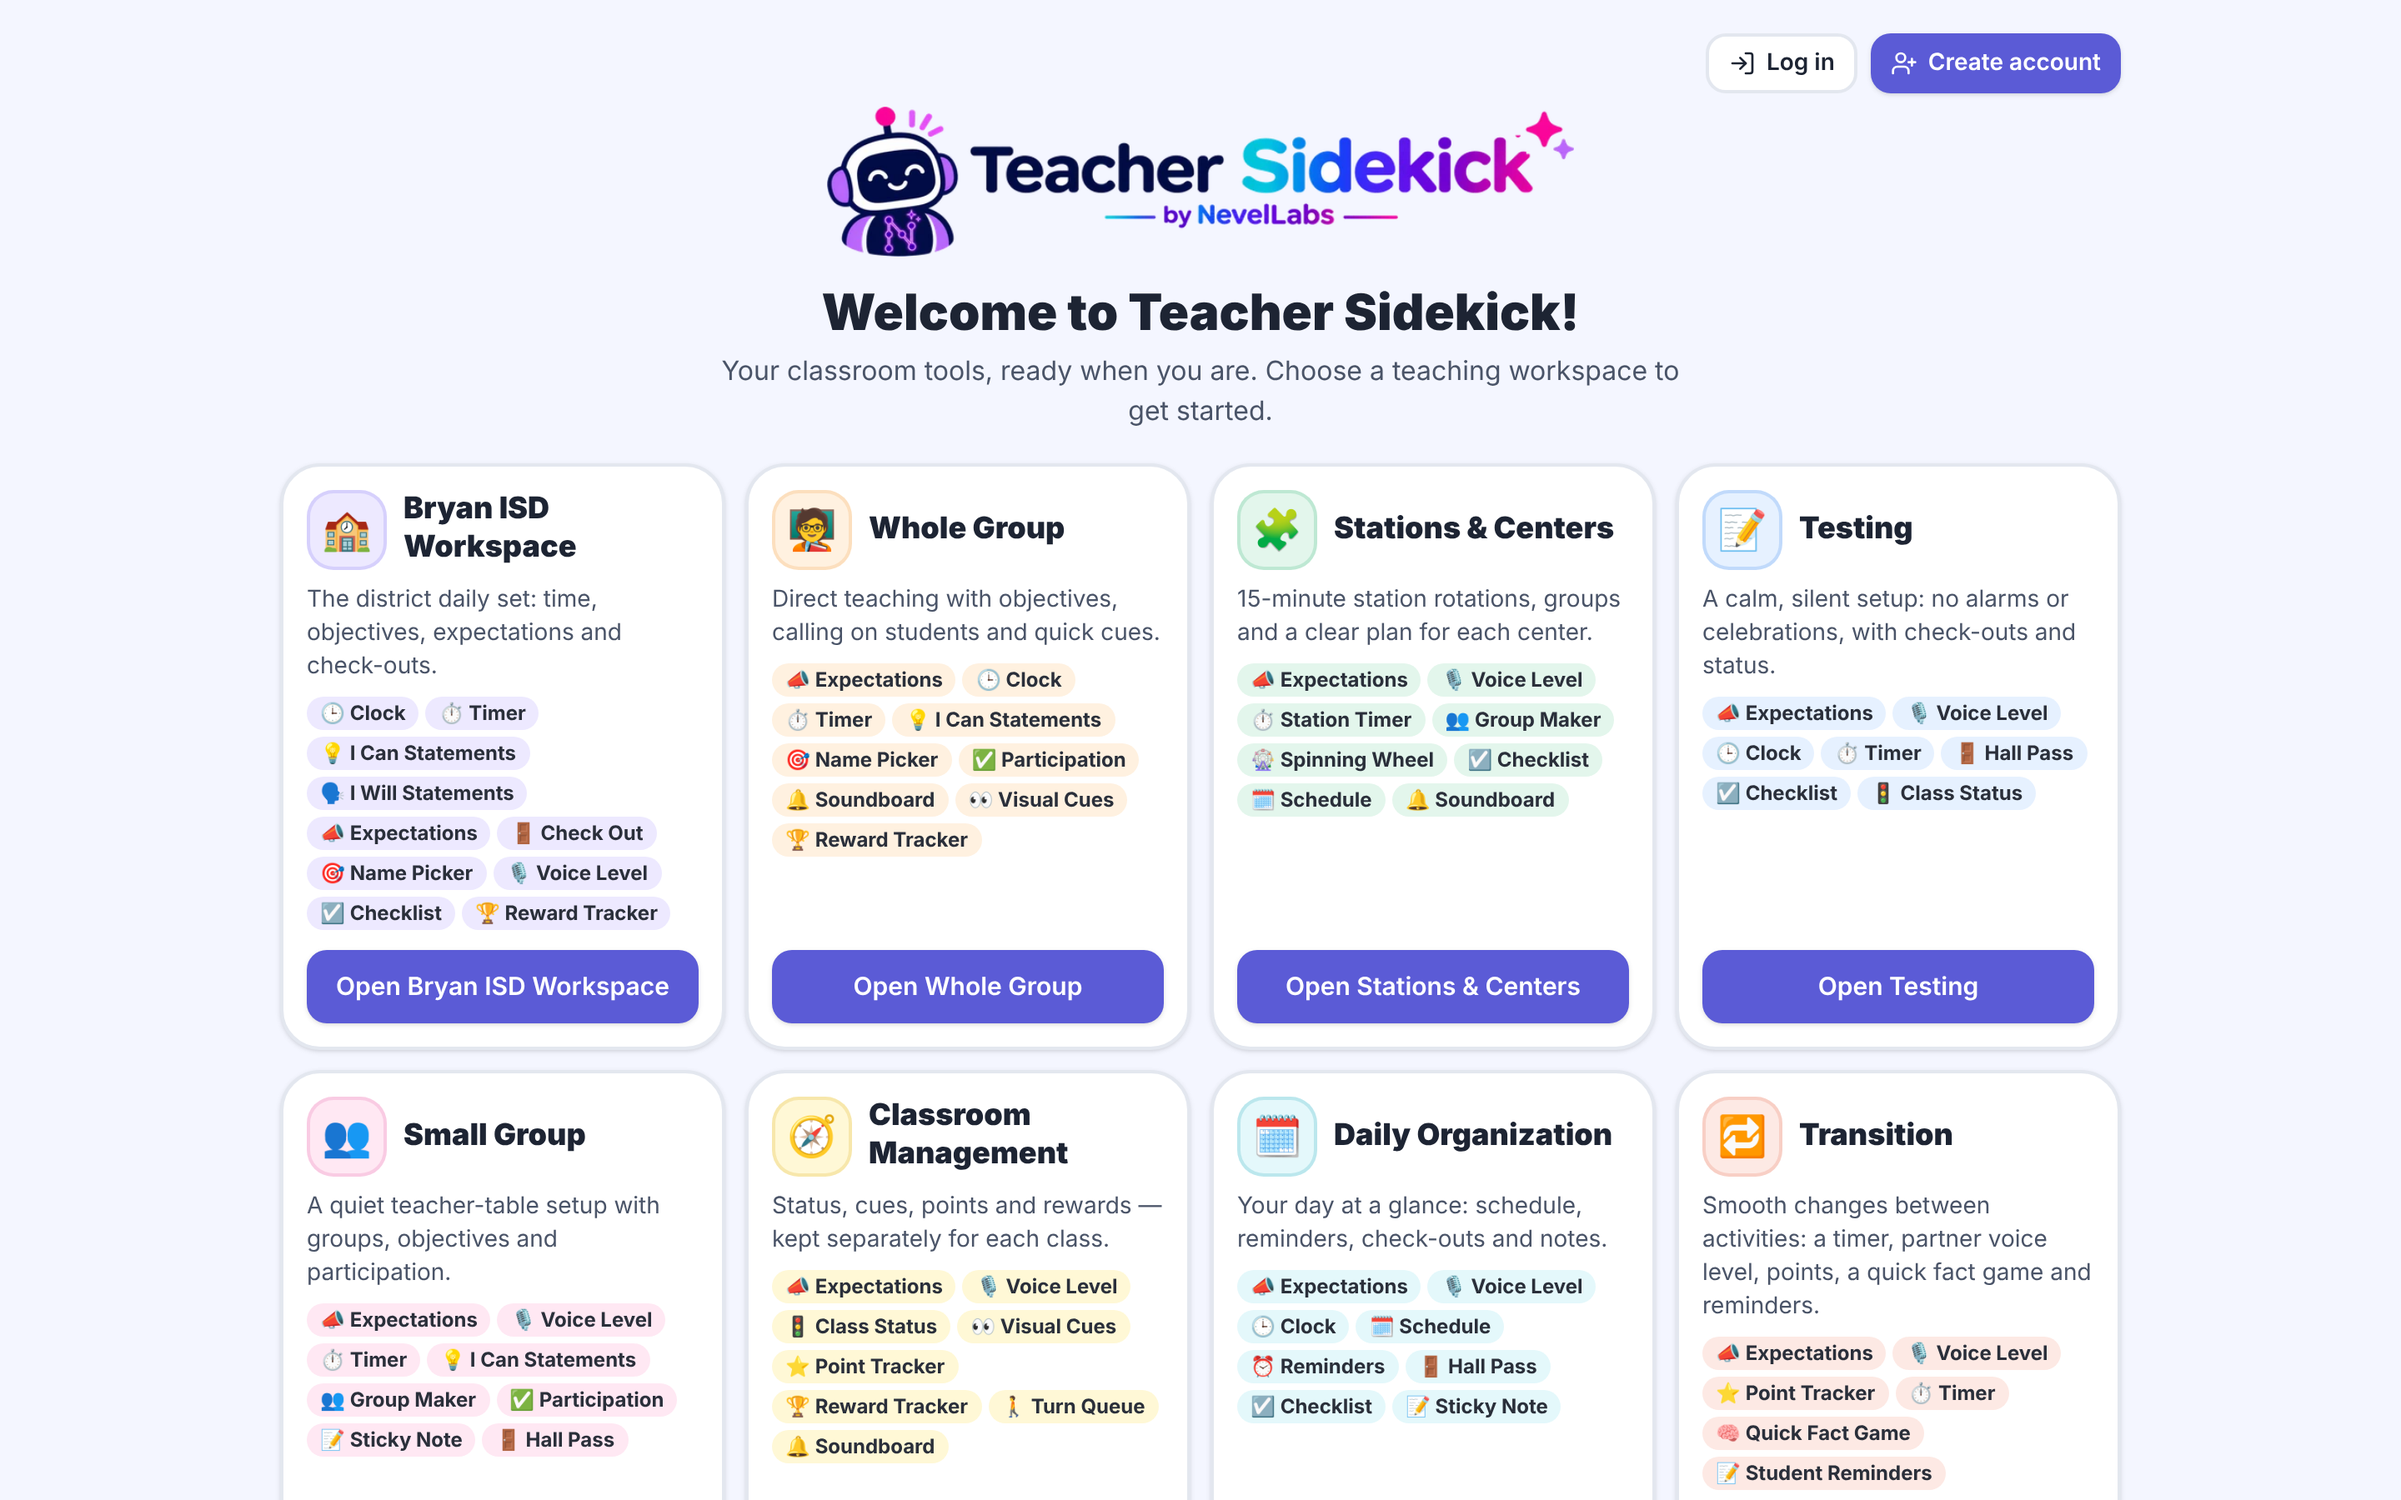
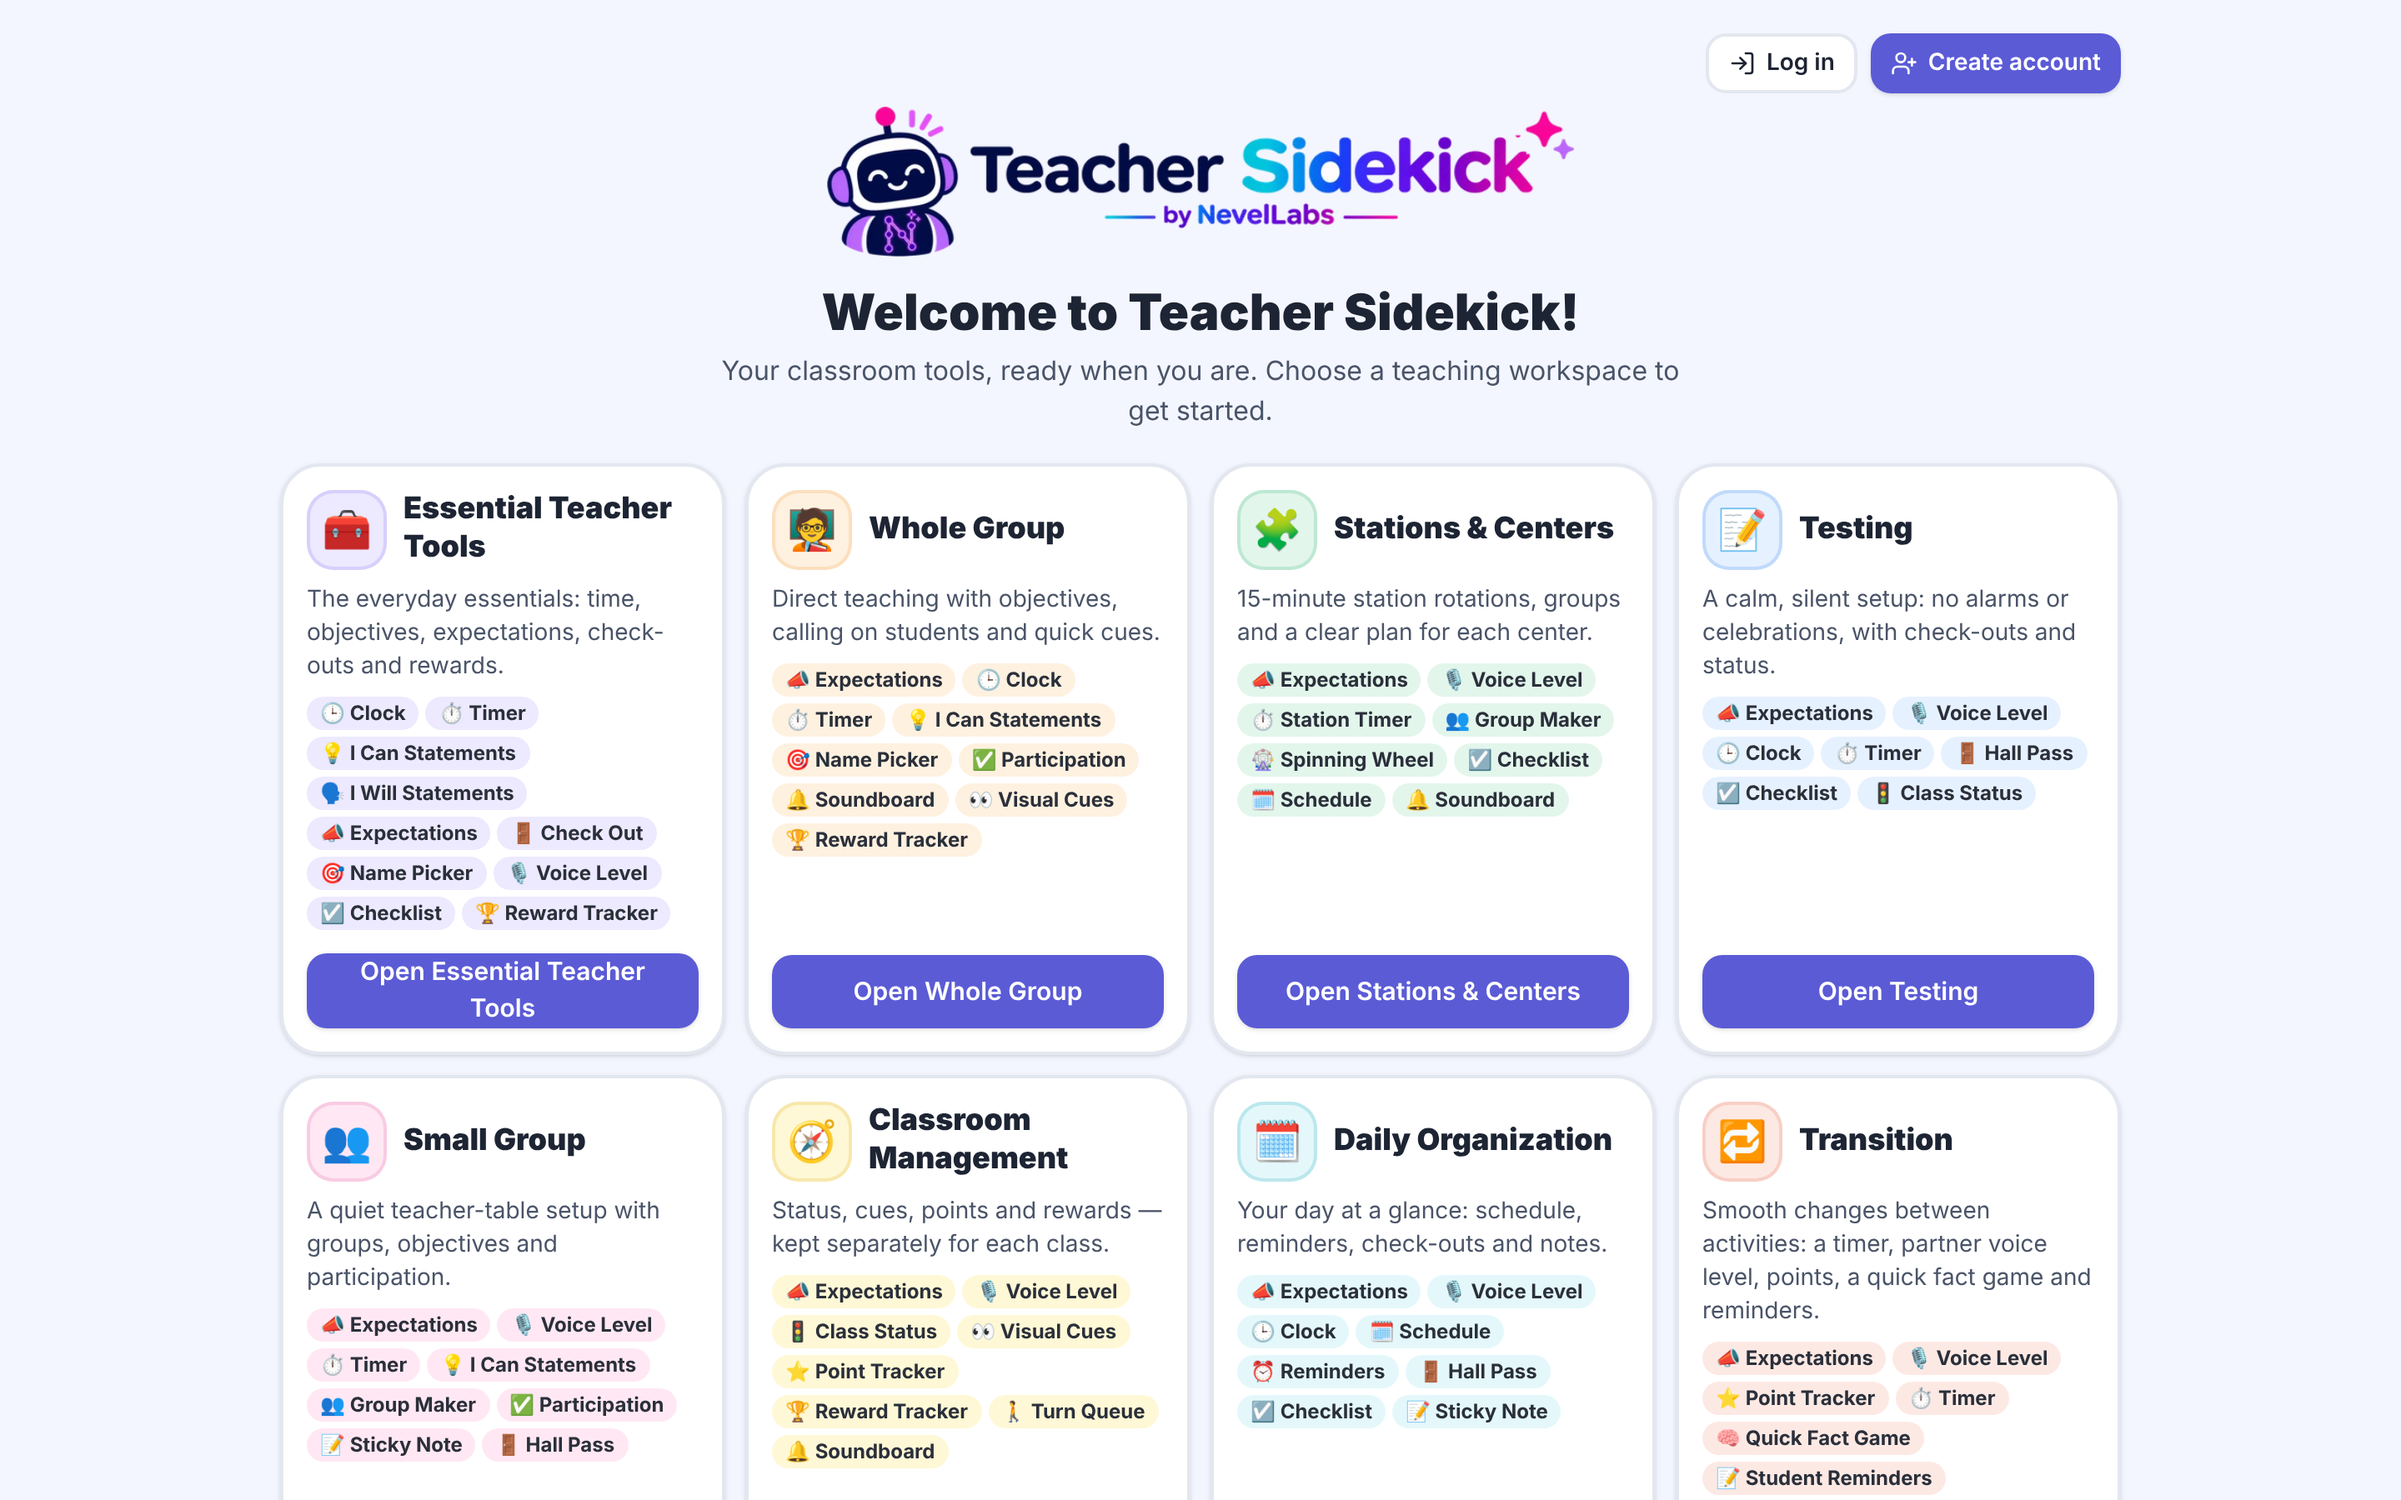
Rename Bryan ISD Workspace preset to Essential Teacher Tools; new screenshots
Claude-Session: https://claude.ai/code/session_011ABWDUMrGmbtZbTtGi8Xcc

diff --git a/e2e/sessions.spec.ts b/e2e/sessions.spec.ts
@@ -10,7 +10,7 @@ test("a new visit shows the branded chooser with all eight presets, at desktop a
     await expect(page.getByRole("heading", { name: "Welcome to Teacher Sidekick!" })).toBeVisible();
     await expect(page.getByText("Your classroom tools, ready when you are. Choose a teaching workspace to get started.")).toBeVisible();
     await expect(page.getByAltText("Teacher Sidekick by NevelLabs")).toBeVisible();
-    for (const name of ["Bryan ISD Workspace", "Whole Group", "Stations & Centers", "Testing", "Small Group", "Classroom Management", "Daily Organization", "Transition", "Custom Workspace"])
+    for (const name of ["Essential Teacher Tools", "Whole Group", "Stations & Centers", "Testing", "Small Group", "Classroom Management", "Daily Organization", "Transition", "Custom Workspace"])
       await expect(page.getByRole("button", { name: `Open ${name}`, exact: true })).toHaveText(`Open ${name}`);
     await expect(page.getByRole("button", { name: "Log in" })).toBeVisible();
     // Download for Mac always points at the newest signed release.
@@ -32,7 +32,7 @@ test("choose a preset → session kept across refreshes in this tab; a new tab s
   await expect(page.getByTestId("account-coming-soon").locator("input")).toHaveCount(0);
   await page.getByRole("button", { name: /Got it/ }).click();
   await page.getByRole("checkbox", { name: /quick 4-step tour/ }).check();
-  await page.getByRole("button", { name: "Open Bryan ISD Workspace", exact: true }).click();
+  await page.getByRole("button", { name: "Open Essential Teacher Tools", exact: true }).click();
   // Optional walkthrough.
   await expect(page.getByTestId("walkthrough")).toContainText("Active Class");
   await page.getByRole("button", { name: "Skip" }).click();
@@ -61,11 +61,11 @@ test("choose a preset → session kept across refreshes in this tab; a new tab s
   await expect(page.locator('[data-testid="widget-status"]')).toContainText("Testing");
   // Choosing it again opens the same workspace instead of a copy.
   await page.getByRole("button", { name: /open the workspace chooser/ }).click();
-  await page.getByRole("button", { name: "Open Bryan ISD Workspace", exact: true }).click();
+  await page.getByRole("button", { name: "Open Essential Teacher Tools", exact: true }).click();
   // All eight presets are listed; picking one that isn't open yet creates it once.
   const options = page.getByTestId("workspace-select").locator("option");
   await expect(options).toHaveText([
-    "Bryan ISD Workspace", "Whole Group", "Stations & Centers", "Testing", "Small Group", "Classroom Management", "Daily Organization", "Transition", "Custom Workspace",
+    "Essential Teacher Tools", "Whole Group", "Stations & Centers", "Testing", "Small Group", "Classroom Management", "Daily Organization", "Transition", "Custom Workspace",
     "✏ Customize for This Class", "＋ New workspace…", "Manage workspaces…",
   ]);
   await page.getByTestId("workspace-select").selectOption({ label: "Small Group" });

diff --git a/e2e/offline.spec.ts b/e2e/offline.spec.ts
@@ -13,7 +13,7 @@ test("after one visit, Sidekick opens and works with no internet", async ({ page
   await context.setOffline(true);
   await page.reload();
   await expect(page.getByRole("heading", { name: "Welcome to Teacher Sidekick!" })).toBeVisible();
-  await page.getByRole("button", { name: "Open Bryan ISD Workspace", exact: true }).click();
+  await page.getByRole("button", { name: "Open Essential Teacher Tools", exact: true }).click();
   await expect(page.getByTestId("widget-grid")).toBeVisible();
   // Pictures (CHAMPS cards) load from the device.
   const champs = page.locator('[data-testid="widget-champs"]');

diff --git a/src/store/presets.ts b/src/store/presets.ts
@@ -44,9 +44,9 @@ const at = (x: number, row: number, w: PresetWidget): PresetWidget => ({ ...w, a
 export const WORKSPACE_PRESETS: WorkspacePreset[] = [
   {
     kind: "bryan",
-    name: "Bryan ISD Workspace",
-    emoji: "🏫",
-    description: "The district daily set: time, objectives, expectations and check-outs.",
+    name: "Essential Teacher Tools",
+    emoji: "🧰",
+    description: "The everyday essentials: time, objectives, expectations, check-outs and rewards.",
     widgets: [
       at(0, 0, clockWithDate),
       at(0, 1, { type: "timer", config: { durationSec: 300 }, w: 1 }),

diff --git a/src/store/accountActions.test.ts b/src/store/accountActions.test.ts
@@ -20,7 +20,7 @@ describe("saved setups (accounts)", () => {
     const back = sessionFromSetup(JSON.parse(json), S().prefs);
     expect(back.classes).toEqual([]);
     const ws = back.workspaces[0];
-    expect(ws.name).toBe("Bryan ISD Workspace");
+    expect(ws.name).toBe("Essential Teacher Tools");
     expect(ws.kind).toBe("bryan");
     const orig = s.workspaces[0];
     const types = (st: typeof s, ids: string[]) => ids.map((id) => st.widgets[id].type);

diff --git a/src/store/persist.test.ts b/src/store/persist.test.ts
@@ -127,7 +127,7 @@ describe("eight presets", () => {
       }
     }
   });
-  it("preset settings: Bryan ISD, Testing, Stations", () => {
+  it("preset settings: Essential Teacher Tools, Testing, Stations", () => {
     const bryan = freshSession("bryan");
     const b = bryan.workspaces[0].widgetIds.map((id) => bryan.widgets[id]);
     const of = (t: string) => b.find((w) => w.type === t)!;

diff --git a/appstore/LISTING.md b/appstore/LISTING.md
@@ -26,7 +26,7 @@ WHAT MAKES IT DIFFERENT
 • Objectives ready to post: search TEKS for "I Can" statements and ELPS for "I Will" statements by grade and subject.
 
 READY-MADE WORKSPACES
-Whole Group, Stations & Centers, Small Group, Testing, Transition, Classroom Management, Daily Organization, or build your own.
+Essential Teacher Tools, Whole Group, Stations & Centers, Small Group, Testing, Transition, Classroom Management, Daily Organization, or build your own.
 
 25+ CLASSROOM TOOLS
 Classroom expectations cards, timers and station timers, clock, schedule, spinner, dice, turn queue, class status, visual cues, soundboard, checklists, sticky notes, anchor charts, quick fact games and more.
